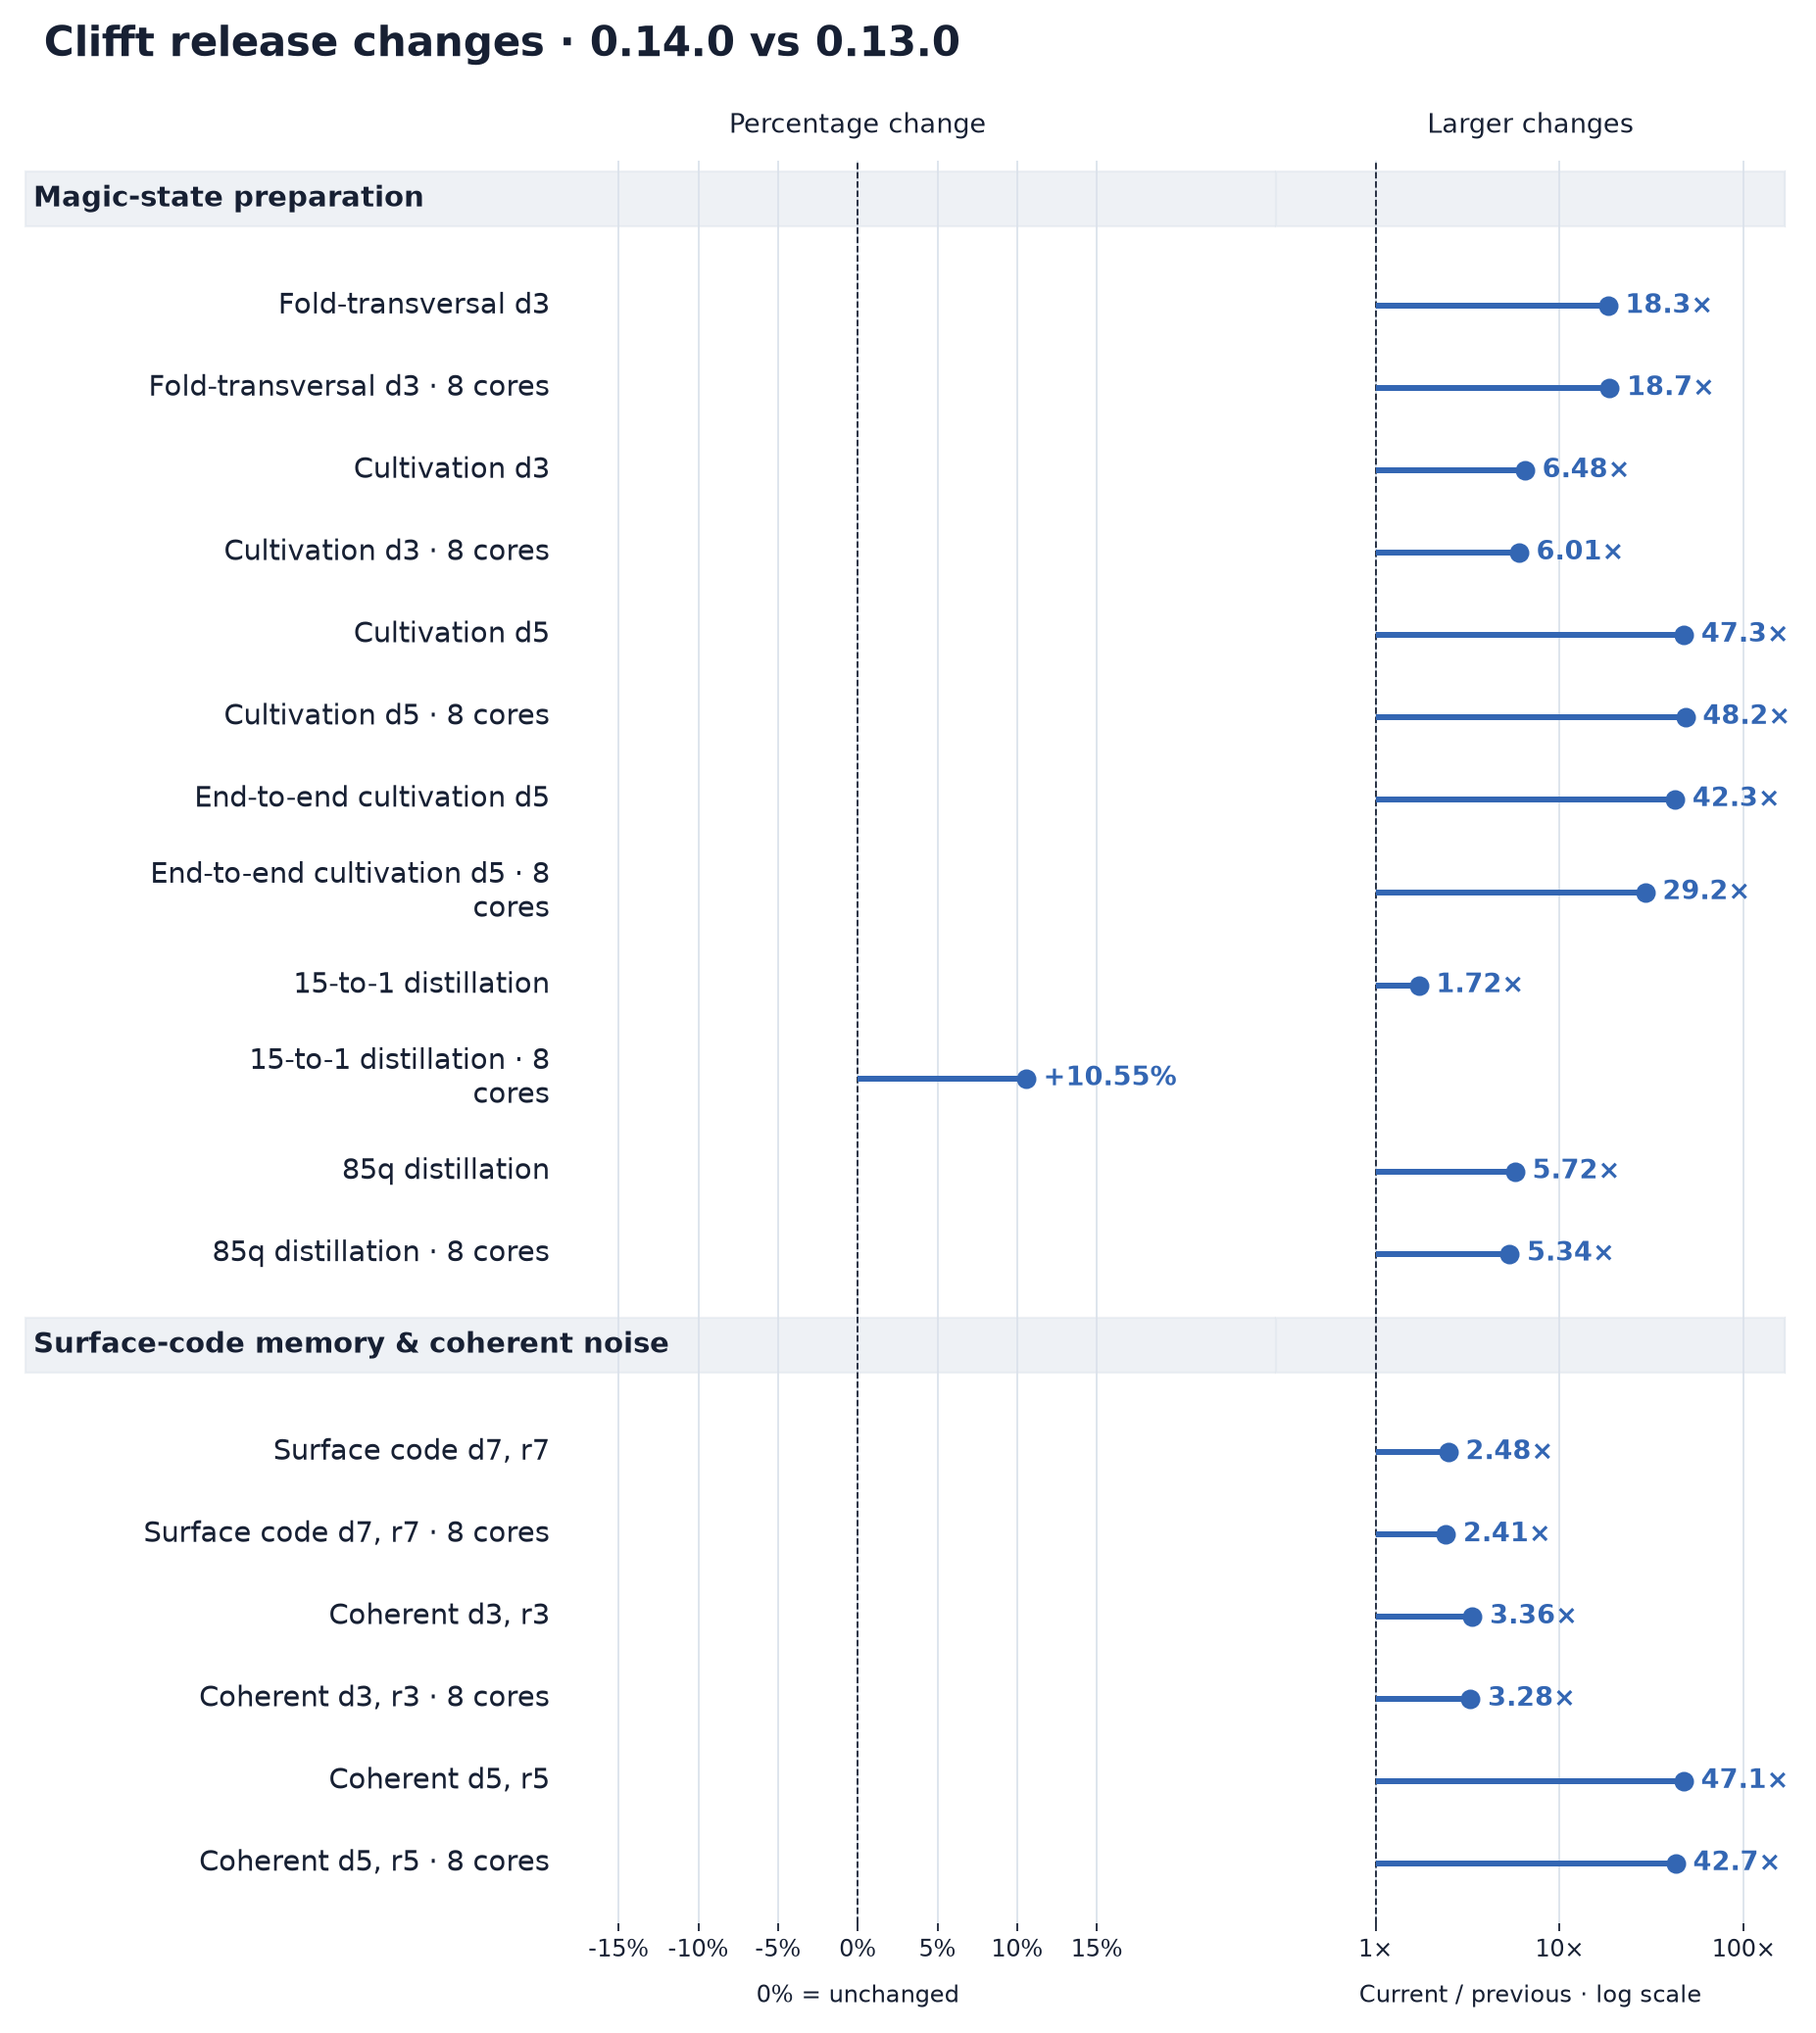
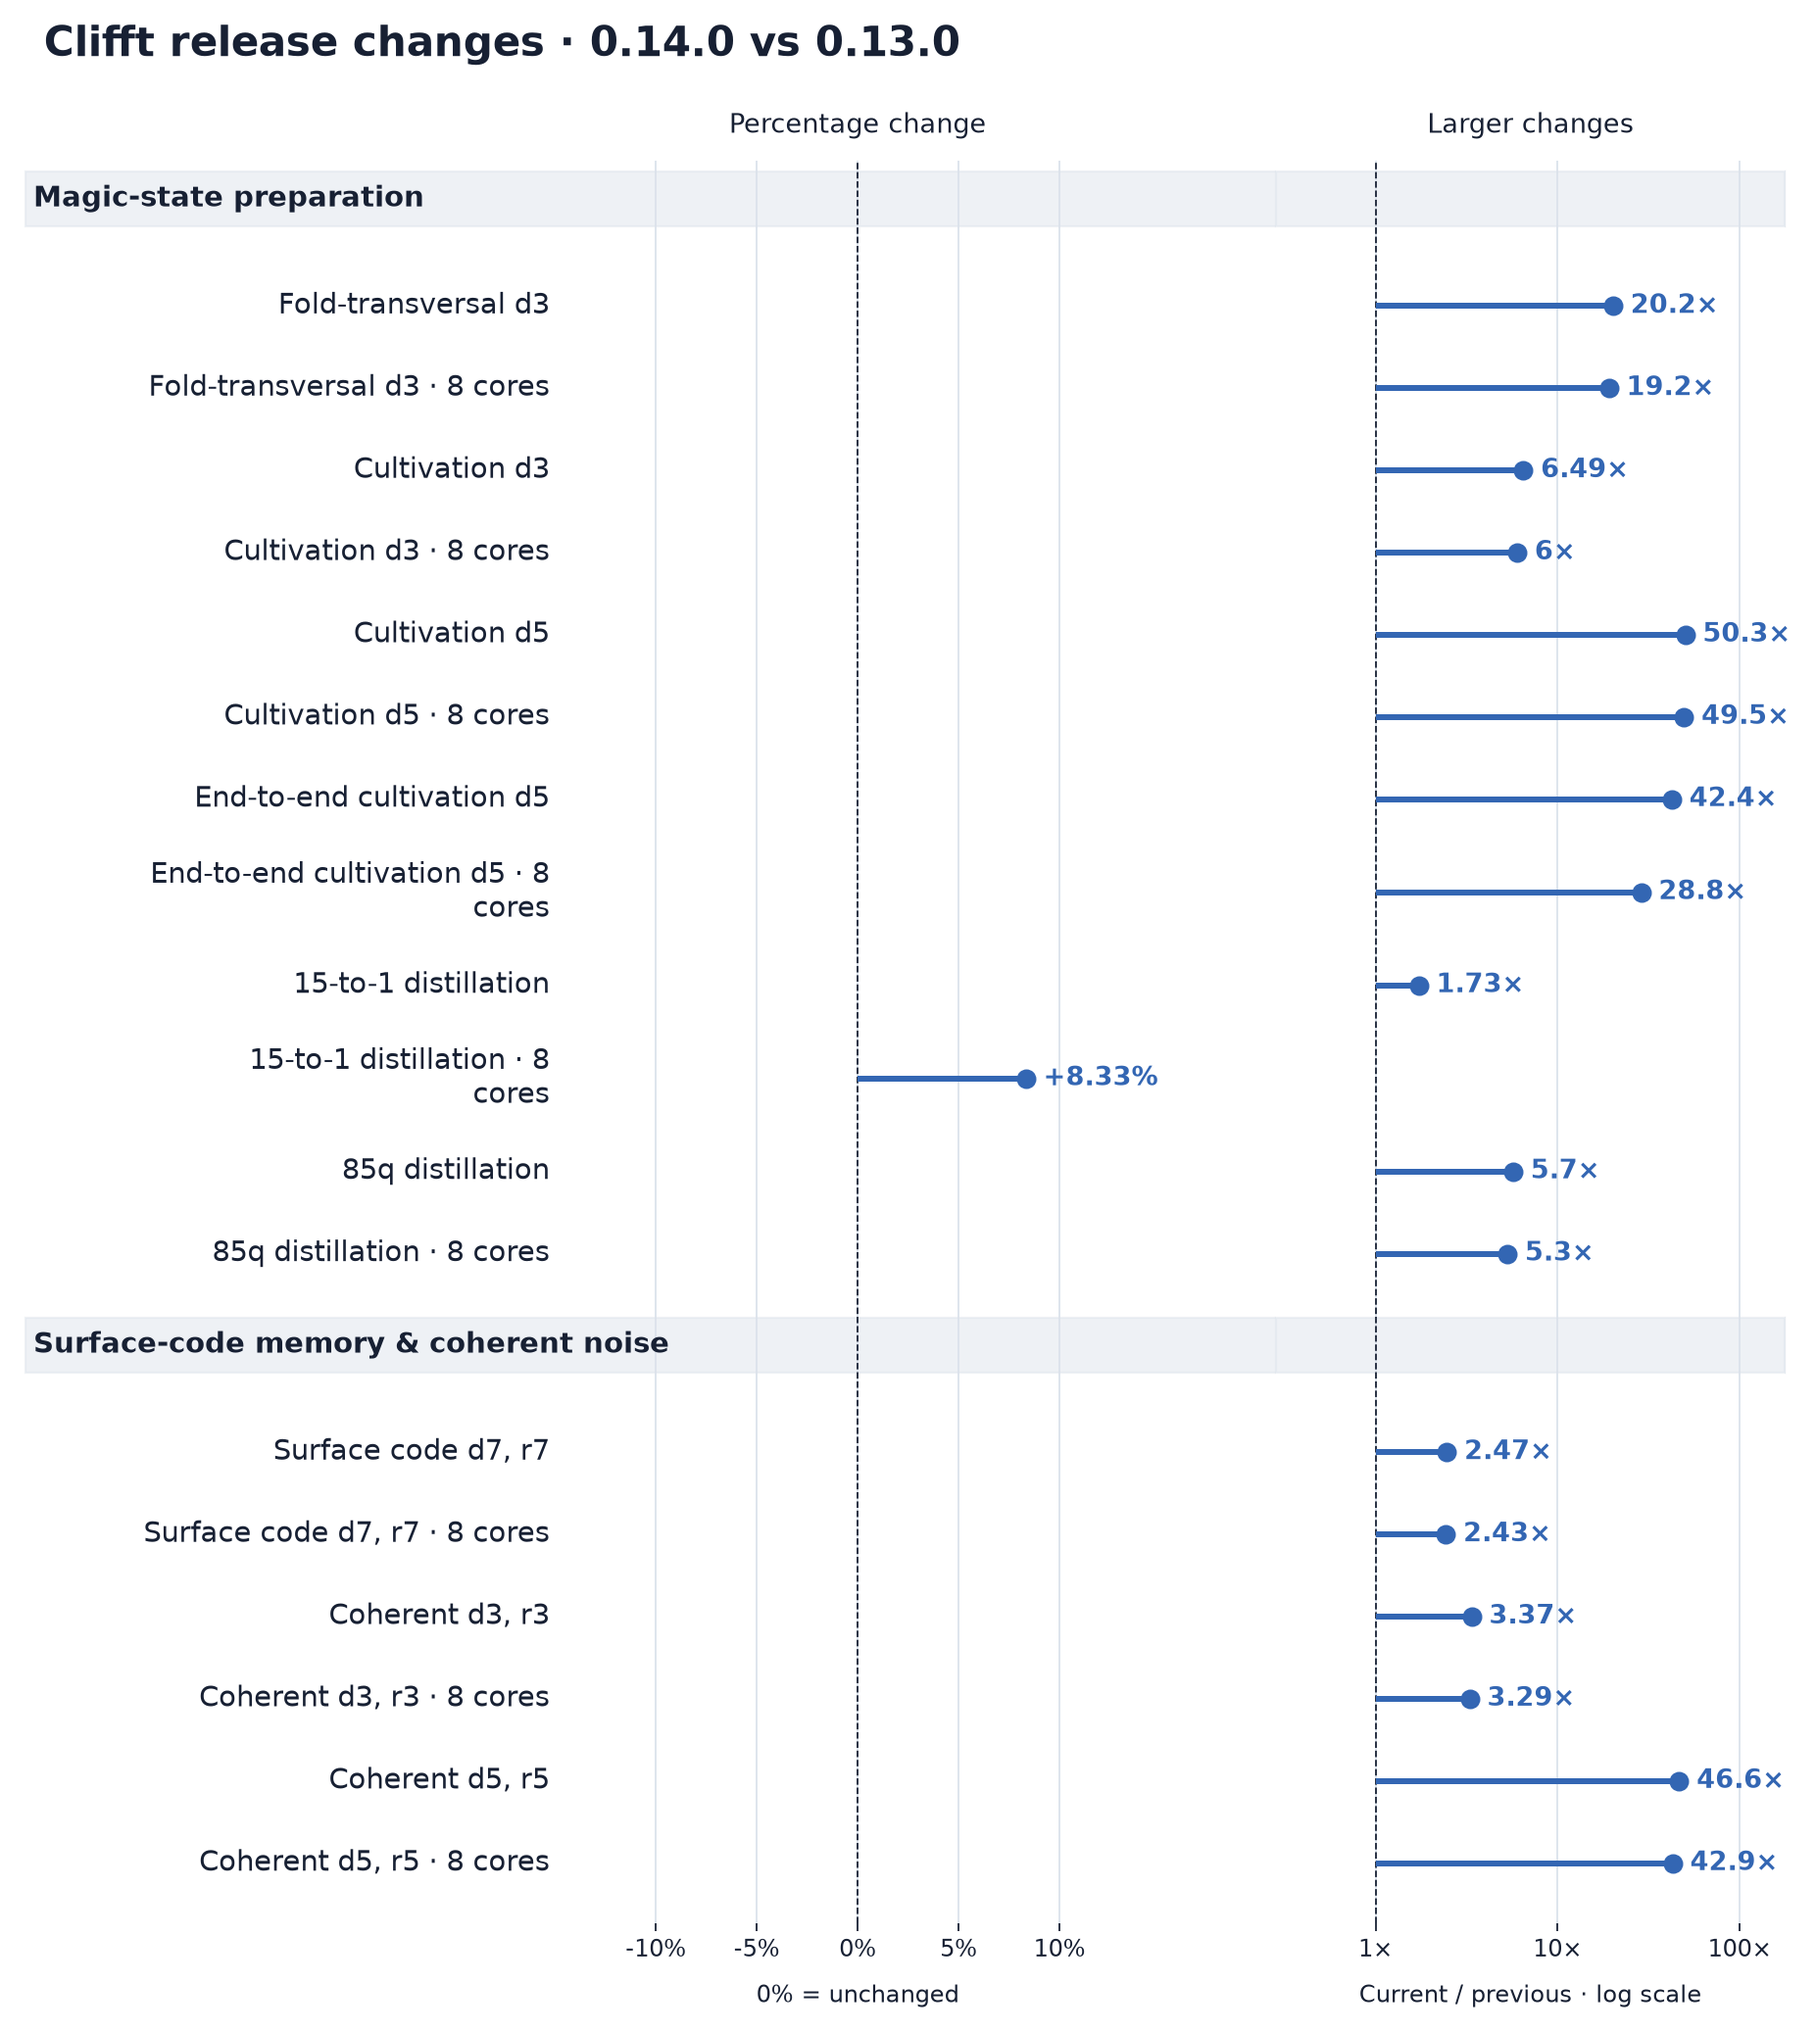
Refresh the static CPU comparisons with RC2 and show both core budgets
Assisted-by: Codex (GPT-6) <noreply@openai.com>

diff --git a/README.md b/README.md
@@ -19,38 +19,50 @@ Looking to use Clifft? Start with the
 See the [Performance guide](https://unitaryfoundation.github.io/clifft/stable/guide/performance/)
 for interpretation, methodology, and longer-term performance history.
 
-The release and peer figures use the Clifft **0.14.0rc1** campaign on an AWS
-`m7a.4xlarge` with one or eight pinned physical cores. The 0.14.0 label refers
-to RC1. Throughput is the median attempted shots per second across three
-repetitions after compilation and the first full sampling call.
-[Campaign report](https://github.com/unitaryfoundation/clifft-bench/blob/1993504c9217da4d4f432bcf853614b29c315bec/results/release-v1/0.14.0rc1-20261120-2134/report/review.md) ·
-[Case table](https://github.com/unitaryfoundation/clifft-bench/blob/1993504c9217da4d4f432bcf853614b29c315bec/results/release-v1/0.14.0rc1-20261120-2134/cases.csv) · [Raw measurements](https://github.com/unitaryfoundation/clifft-bench/blob/1993504c9217da4d4f432bcf853614b29c315bec/results/release-v1/0.14.0rc1-20261120-2134/raw.json)
+The release figure compares **Clifft 0.14.0rc2** with **0.13.0**. The peer
+figure combines these new Clifft measurements with the peer results from the
+RC1 campaign. Both runs used the same AWS `m7a.4xlarge` and one or eight pinned
+physical cores. The 0.14.0 label refers to RC2. Throughput is the median
+attempted shots per second over three repetitions after compilation and the
+first full sampling call. [Campaign report](results/release-clifft/0.14.0rc2-20261123-1422/report/review.md) ·
+[Clifft case table](results/release-clifft/0.14.0rc2-20261123-1422/cases.csv) ·
+[Clifft raw measurements](results/release-clifft/0.14.0rc2-20261123-1422/raw.json) ·
+[Peer raw measurements](results/release-v1/0.14.0rc1-20261120-2134/raw.json)
 
 ### Did Clifft get faster in the latest release?
 
 <picture>
   <source media="(prefers-color-scheme: dark)" srcset="reporting/figures/web/release-change-dark.png">
-  <img src="reporting/figures/web/release-change-light.png" alt="Clifft 0.14.0rc1 versus 0.13.0 survivor-count throughput on one and eight cores. RC1 is faster in all 18 measured pairs.">
+  <img src="reporting/figures/web/release-change-light.png" alt="Clifft 0.14.0rc2 versus 0.13.0 survivor-count throughput on one and eight cores. RC2 led in all 18 measured pairs.">
 </picture>
 
-Clifft 0.14.0rc1 had higher survivor-count throughput than 0.13.0 on all nine
-circuits at both core counts. For example, fold d3 reached 18.3× the previous
-release’s throughput on one core and 18.7× on eight. Fold d5 appears in the
-peer figure below. The campaign omitted its two 0.13.0 survivor-count baselines
-because of their runtime.
+Clifft 0.14.0rc2 had higher survivor-count throughput than 0.13.0 on all nine
+circuits at both core counts. Fold d3 reached 20.2× the previous release’s
+throughput on one core and 19.2× on eight. Fold d5 appears in the peer figure
+below. The campaign omitted its two 0.13.0 survivor-count baselines because of
+their runtime.
 
 ### How does Clifft compare with other simulators?
 
+Each entry counts workloads where Clifft had higher median throughput out of
+those measured by both tools. A dash means there was no paired measurement.
+
+| Peer | Survivor counts, 1 core | Survivor counts, 8 cores | Packed samples, 1 core | Packed samples, 8 cores |
+| --- | ---: | ---: | ---: | ---: |
+| Tsim 1.0.0 | 8/10 | 10/10 | 9/16 | 16/16 |
+| xtim 4.1.2 | 1/4 | 4/4 | 1/4 | 1/4 |
+| SymFT 2026.10.8 | 7/7 | 7/7 | — | — |
+| Stim 1.16.0 | — | — | 1/1 | — |
+
+On packed fold d3, Tsim delivered 2.02× Clifft’s throughput on one core, and
+Clifft delivered 1.83× Tsim’s on eight. Stim’s single measured comparison is
+one-core surface-code d7/r7, where both tools return packed detector and
+observable samples. [Benchmark contract](docs/benchmark-contract.md)
+
 <picture>
   <source media="(prefers-color-scheme: dark)" srcset="reporting/figures/web/simulator-throughput-dark.png">
-  <img src="reporting/figures/web/simulator-throughput-light.png" alt="Attempted shots per second for Clifft 0.14.0rc1, Tsim 1.0.0, xtim 4.1.2, SymFT 2026.10.8, and Stim 1.16.0, grouped by workload, postselection mode, and core count.">
+  <img src="reporting/figures/web/simulator-throughput-light.png" alt="Attempted shots per second for Clifft 0.14.0rc2, Tsim, xtim, SymFT, and Stim, grouped by workload, postselection mode, and core count.">
 </picture>
-
-On eight cores, Clifft led Tsim on all 10 shared survivor-count workloads and
-15 of 16 packed-sampling workloads. Tsim led on packed fold d3, and xtim led
-Clifft on three of its four eight-core packed workloads. Stim’s single measured
-comparison is one-core surface-code d7/r7, where both tools return packed
-detector and observable samples. [Benchmark contract](docs/benchmark-contract.md)
 
 ### Earlier Draper adder comparison
 
@@ -68,7 +80,7 @@ The release configurations also differ in calibrated batch size, which rises fro
 
 ## Reproduce or contribute
 
-- [Generate release reports](CONTRIBUTING.md#release-reporting) from one execution.
+- [Generate release reports](CONTRIBUTING.md#release-reporting) from a full campaign or a Clifft refresh with its peer results.
   The earlier adder figure uses the [archived tools](CONTRIBUTING.md#historical-evidence).
 - [Collect release benchmarks](CONTRIBUTING.md#reference-host-collection) on the reference EC2 host.
 - [Contribute](CONTRIBUTING.md): local development, release setup, and new workloads.

diff --git a/results/release-clifft/0.14.0rc2-20261123-1422/README.md b/results/release-clifft/0.14.0rc2-20261123-1422/README.md
@@ -1,0 +1,21 @@
+# Clifft 0.14.0rc2 CPU benchmark results
+
+The official Clifft-only campaign ran on November 23, 2026, on the same AWS
+`m7a.4xlarge` used for RC1. All 74 measured cases passed correctness and produced
+three timed samples each. The other 36 cases requested packed output from Clifft
+0.13.0, which does not support that endpoint. [Case table](cases.csv) ·
+[Raw samples](raw.json) · [Combined report and figures](report/review.md)
+
+| Report input | Execution | Measurements used |
+| --- | --- | --- |
+| [RC2 Clifft-only campaign](https://github.com/unitaryfoundation/clifft-bench/tree/3c128d8bfd1983744869b5b6e958cd8ddcd051a3/results/release-clifft/0.14.0rc2-20261123-1422) | `83bd8bd6-a5b6-4984-af90-e3ced3b6f7da` | Clifft 0.14.0rc2 and its paired 0.13.0 baseline |
+| [RC1 full campaign](https://github.com/unitaryfoundation/clifft-bench/tree/1993504c9217da4d4f432bcf853614b29c315bec/results/release-v1/0.14.0rc1-20261120-2134) | `1b252b89-75d2-4881-ade9-114e09db6c9d` | Tsim 1.0.0, xtim 4.1.2, SymFT 2026.10.8, and Stim 1.16.0 |
+
+The [throughput JSON](report/simulator-throughput.json) identifies the source of
+each plotted value. To regenerate both static figures and the JSON from the
+repository root, run the following command.
+
+```bash
+uv run --extra report clifft-bench report results/release-clifft/0.14.0rc2-20261123-1422 \
+  --peer-results results/release-v1/0.14.0rc1-20261120-2134
+```
